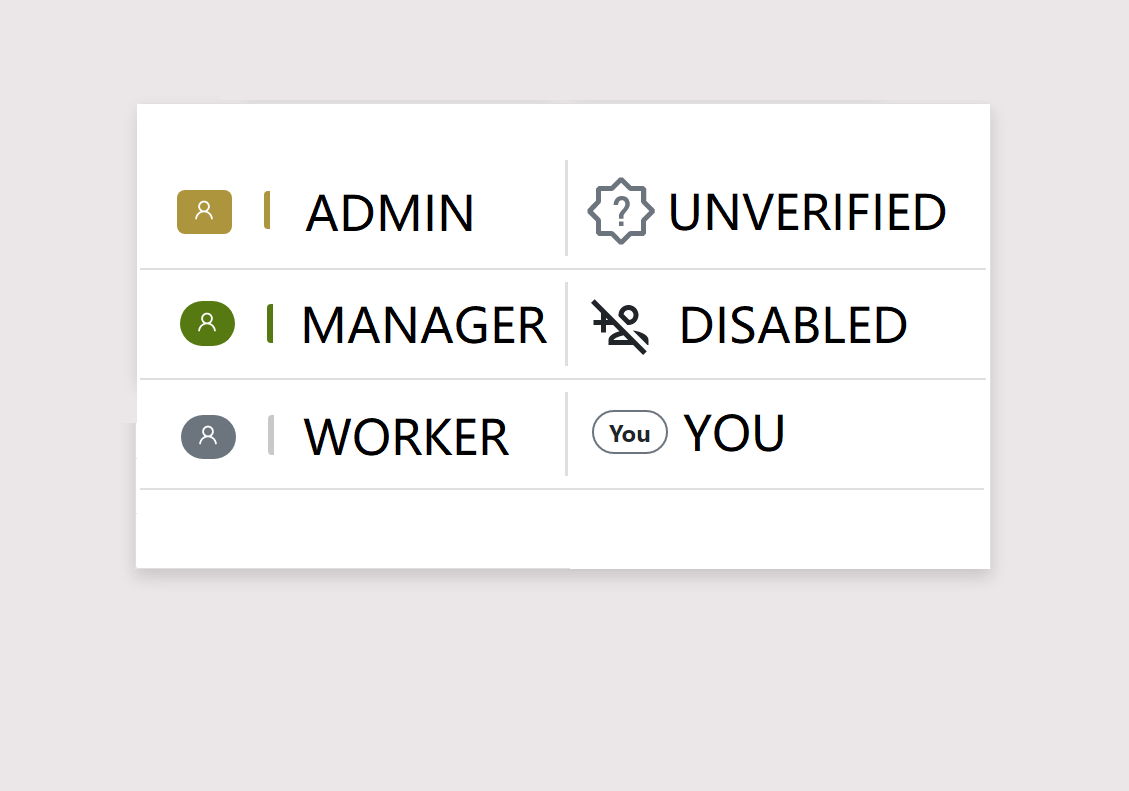
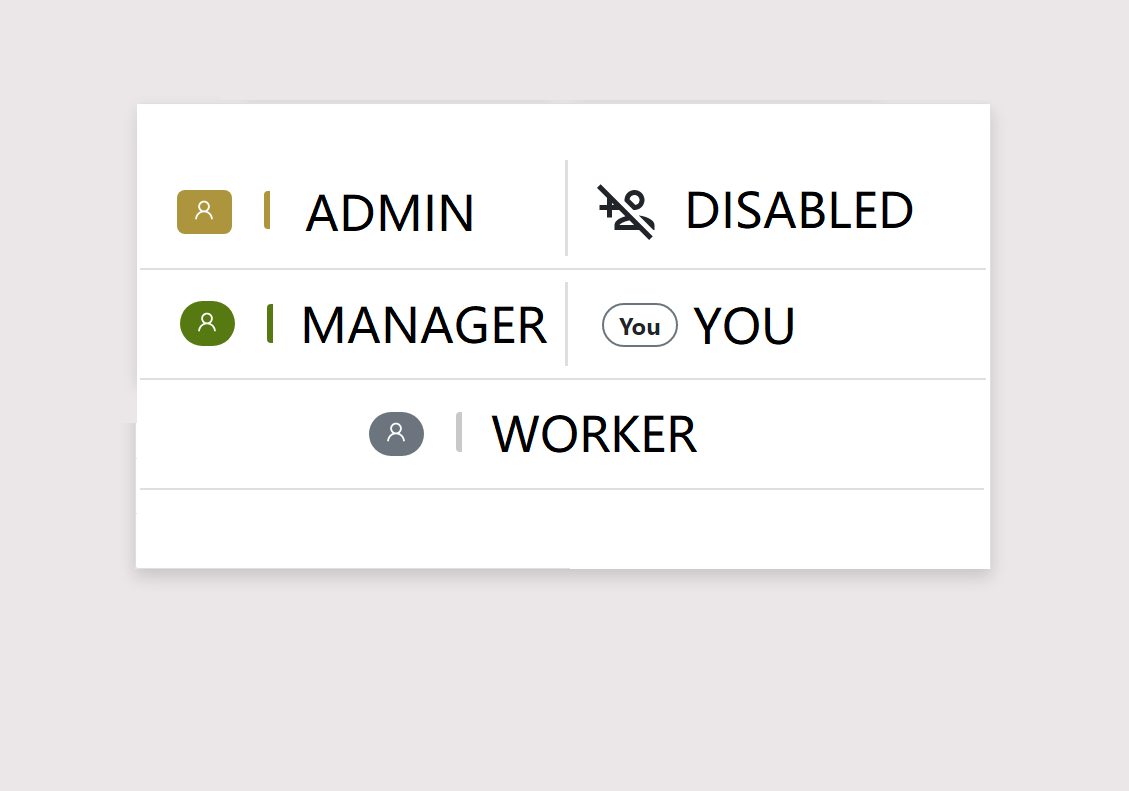
FIx: Unverified users removed, Instructions update

Changed region(s): [[0.155, 0.5158, 0.713, 0.5765], [0.527, 0.3641, 0.806, 0.4551], [0.527, 0.2124, 0.837, 0.3034]]

diff --git a/frontend/src/Components/AdminPanel/AdminCarousel.jsx b/frontend/src/Components/AdminPanel/AdminCarousel.jsx
@@ -4,8 +4,6 @@ import First from "../AdminPanel/Images/First.png";
 import Second from "../AdminPanel/Images/Second.png";
 import Third from "../AdminPanel/Images/Third.png";
 import Fourth from "../AdminPanel/Images/Fourth.png";
-import Fifth from "../AdminPanel/Images/Fifth.png";
-import Sixth from "../AdminPanel/Images/Sixth.png";
 
 const AdminCarousel = () => {
    const [index, setIndex] = useState(0);
@@ -32,18 +30,6 @@ const AdminCarousel = () => {
             <img className="d-block w-100" src={Third} alt="Third slide" />
             <Carousel.Caption>
                <h2 className="text-dark bg-white p-1 rounded border border-dark">3) Demote or Disable</h2>
-            </Carousel.Caption>
-         </Carousel.Item>
-         <Carousel.Item interval={2500}>
-            <img className="d-block w-100" src={Sixth} alt="Fourth slide" />
-            <Carousel.Caption>
-               <h2 className="text-dark bg-white p-1 rounded border border-dark">4) Add To Company</h2>
-            </Carousel.Caption>
-         </Carousel.Item>
-         <Carousel.Item interval={2500}>
-            <img className="d-block w-100" src={Fifth} alt="Fourth slide" />
-            <Carousel.Caption>
-               <h2 className="text-dark bg-white p-1 rounded border border-dark">5) Remove from company</h2>
             </Carousel.Caption>
          </Carousel.Item>
          <Carousel.Item interval={2500}>

diff --git a/frontend/src/Components/ReusableComponents/NavbarPanel.jsx b/frontend/src/Components/ReusableComponents/NavbarPanel.jsx
@@ -20,7 +20,7 @@ const AdminPanelNav = ({
 
    const searchFilter = () => {
       if (searchTerm === false) {
-         return "Disabled & Unverified";
+         return "Disabled users";
       } else if (searchTerm === true) {
          return "Active Users";
       }
@@ -57,7 +57,7 @@ const AdminPanelNav = ({
                               Active Users
                            </Dropdown.Item>
                            <Dropdown.Item className="text-dark" onClick={() => setSearchTerm(false)}>
-                              Disabled & Unverified
+                              Disabled Users
                            </Dropdown.Item>
                            <Dropdown.Item className="text-dark" onClick={() => setSearchTerm("")}>
                               Clear Search

diff --git a/frontend/src/Components/AdminPanel/AdminPanel.jsx b/frontend/src/Components/AdminPanel/AdminPanel.jsx
@@ -40,7 +40,7 @@ const AdminPanel = () => {
          user.address.includes(searchTerm) ||
          user.phoneNumber.includes(searchTerm) ||
          user.roleName.includes(searchTerm) ||
-         ((user.verified === searchTerm || user.enabled === searchTerm) && user.enabled === searchTerm && user.verified === searchTerm)
+         user.enabled === searchTerm
    );
 
    const allUsers = filterUsers.map((elem, index) => (
